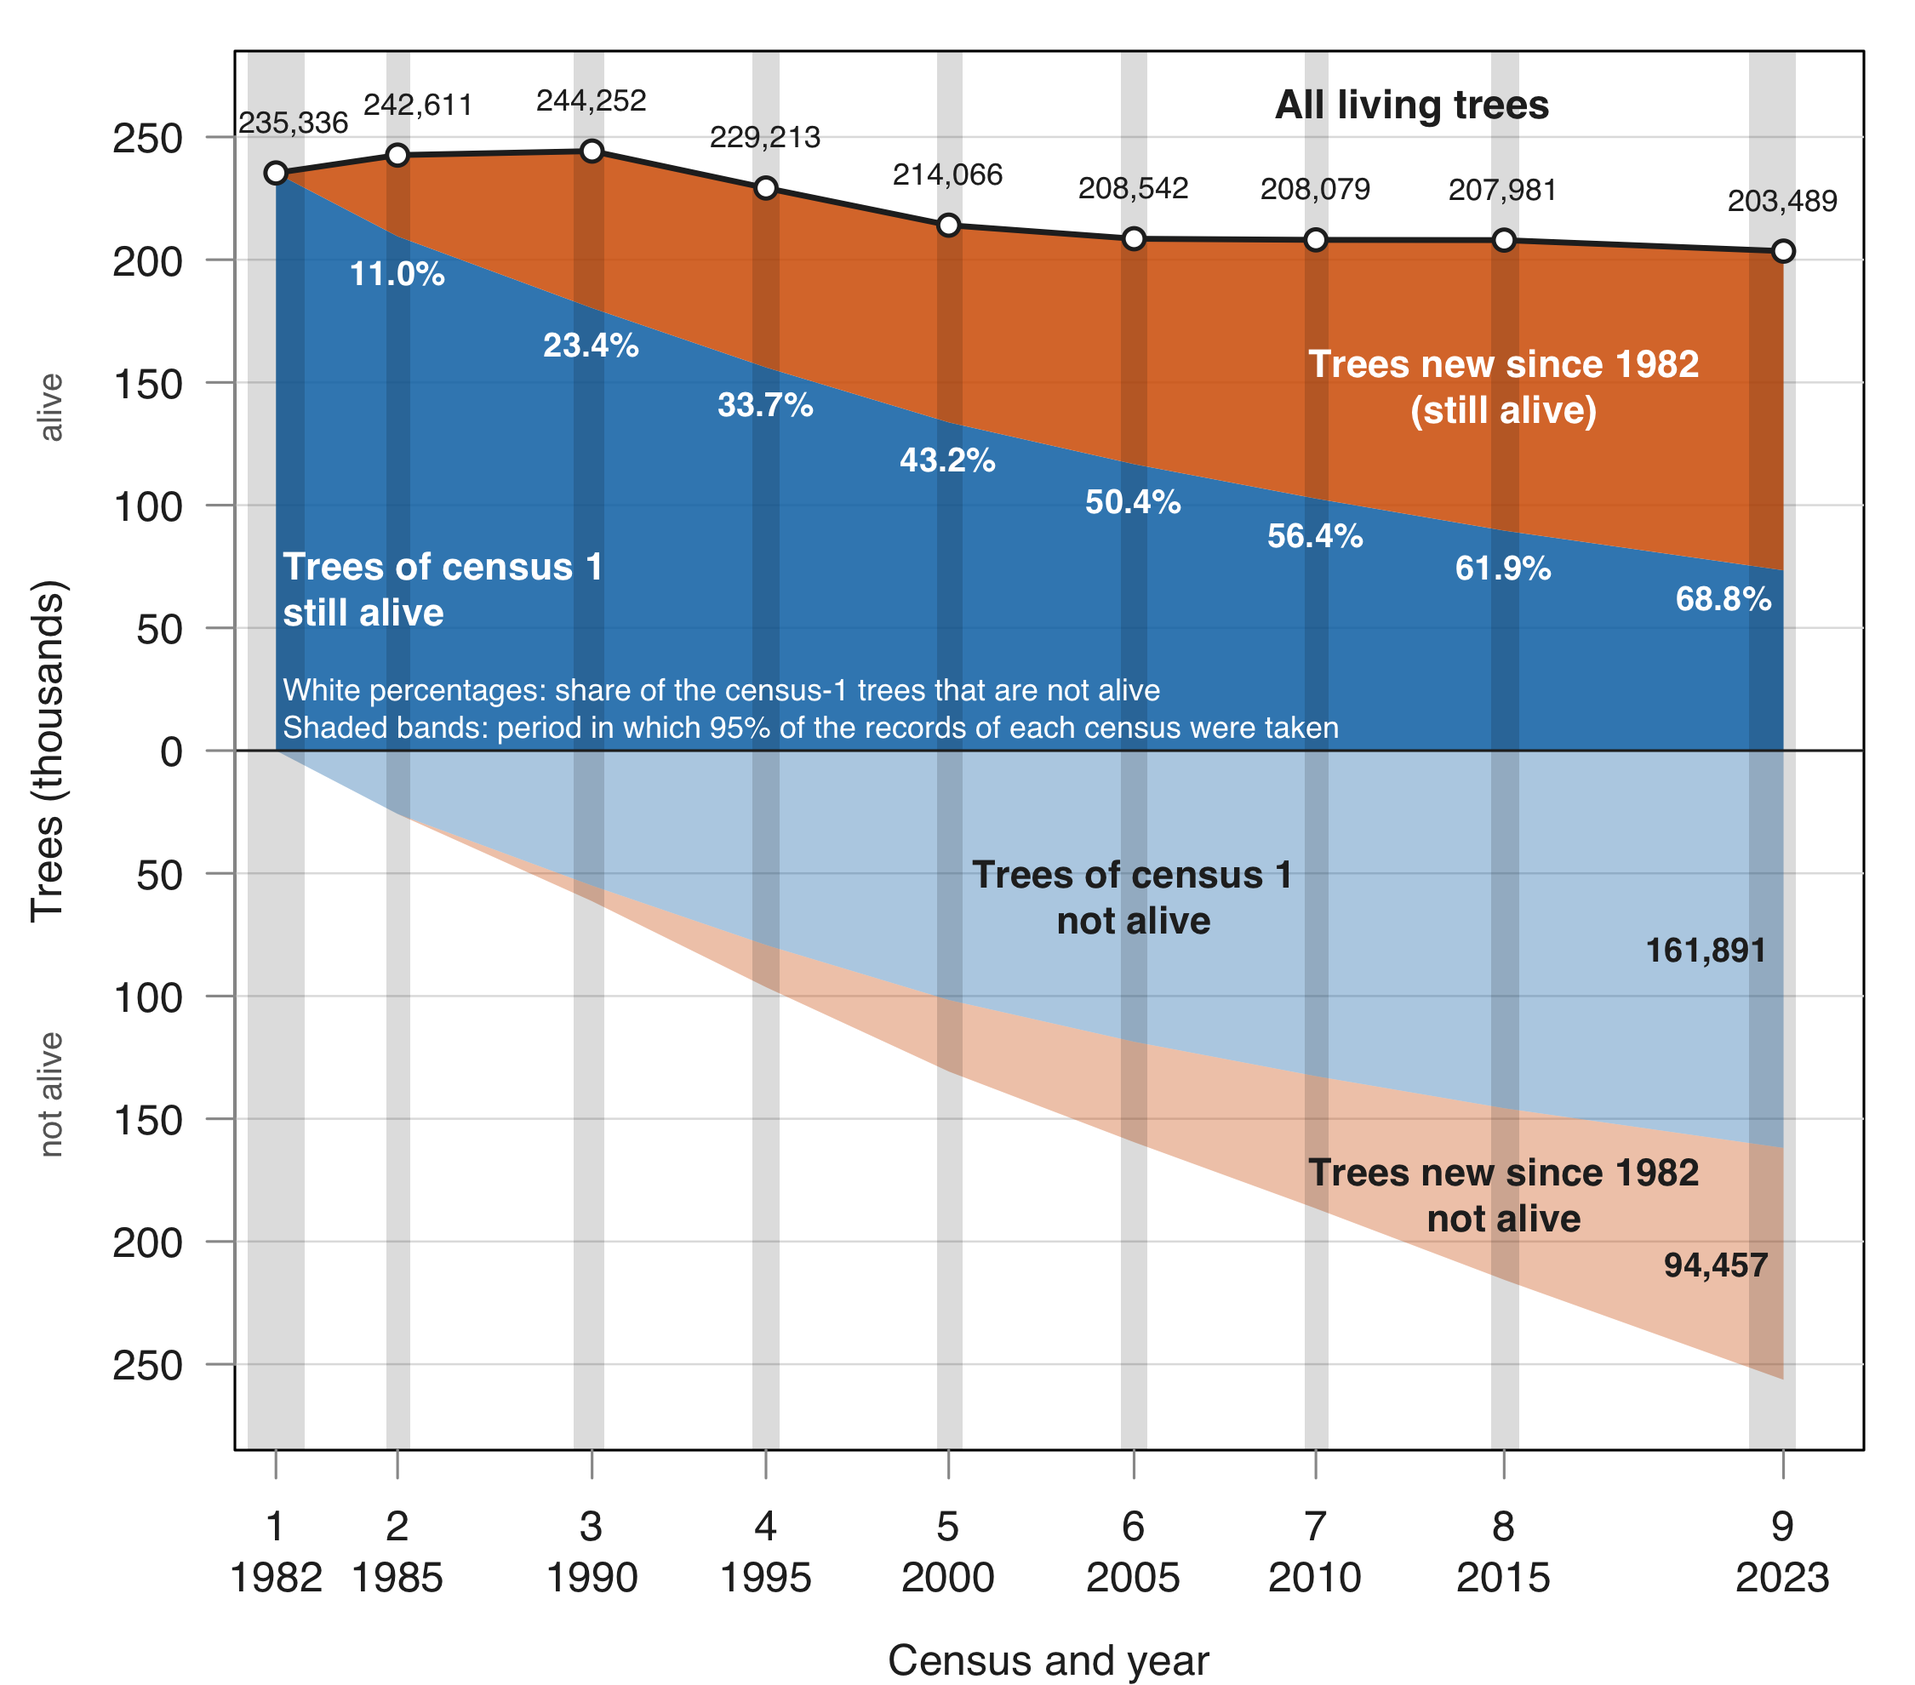
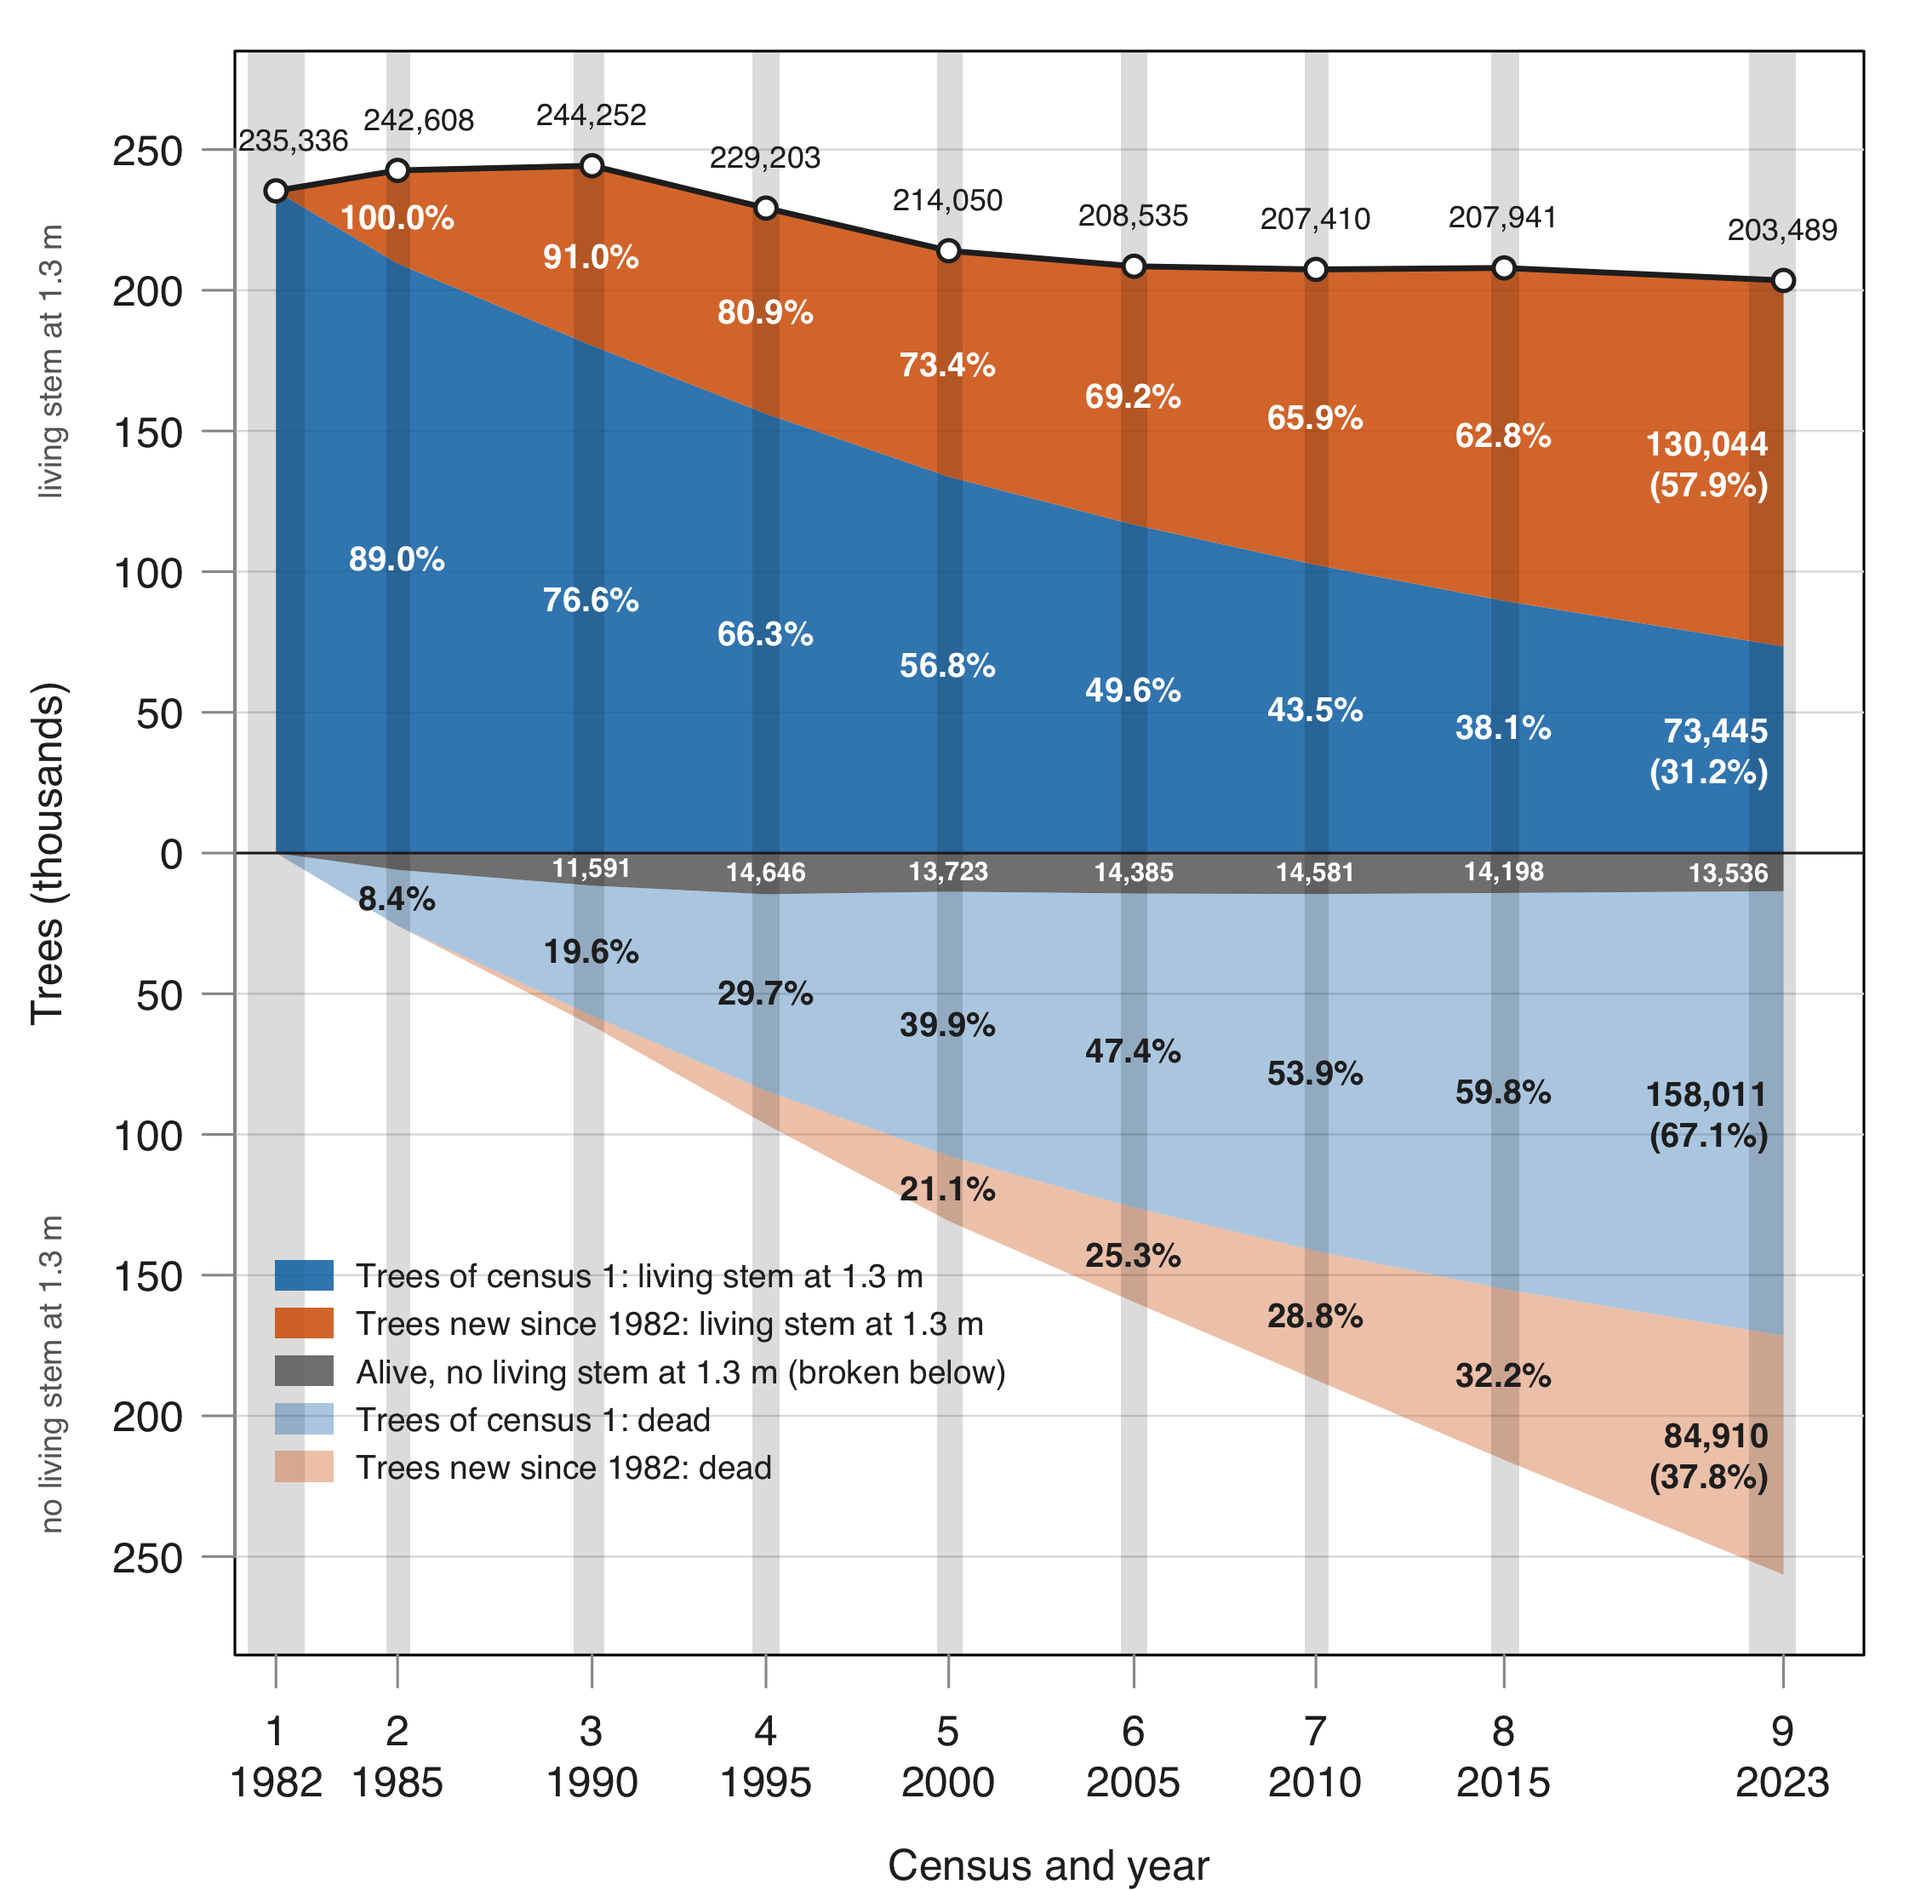
data paper: Figure 1 by tree-level groups, broken-below trees alive; caption written by the script
Groups per census: living stem at 1.3 m (Rstatus A on a non-stump record),
alive without a living stem at 1.3 m (broken below, or alive later), dead
(no living stem and no stump record now or later). Checks: every tree in
one group, the dead only grow, dead trees all D, stump codes add up.

diff --git a/data_paper_and_repo_publication/1_manuscript/guidelines-compliance.md b/data_paper_and_repo_publication/1_manuscript/guidelines-compliance.md
@@ -131,7 +131,7 @@ source("code/3_census-9-summary.R")   # census-9 summary of the Abstract and the
 
 The scripts write CSV files to `manuscript_outputs/`:
 
-- `figure-1_tree-dynamics.png`, `.pdf` and `.csv`;
+- `figure-1_tree-dynamics.png`, `.pdf` and `.csv`, and its caption `figure-1_caption.txt`;
 - `table_columns-census-tables.csv`, `table_columns-species-table.csv`, `table_status-codes.csv`;
 - `data-description_numbers.csv`;
 - `census-9_summary.csv`, `census-9_species.csv`, `census-9_families.csv`.
